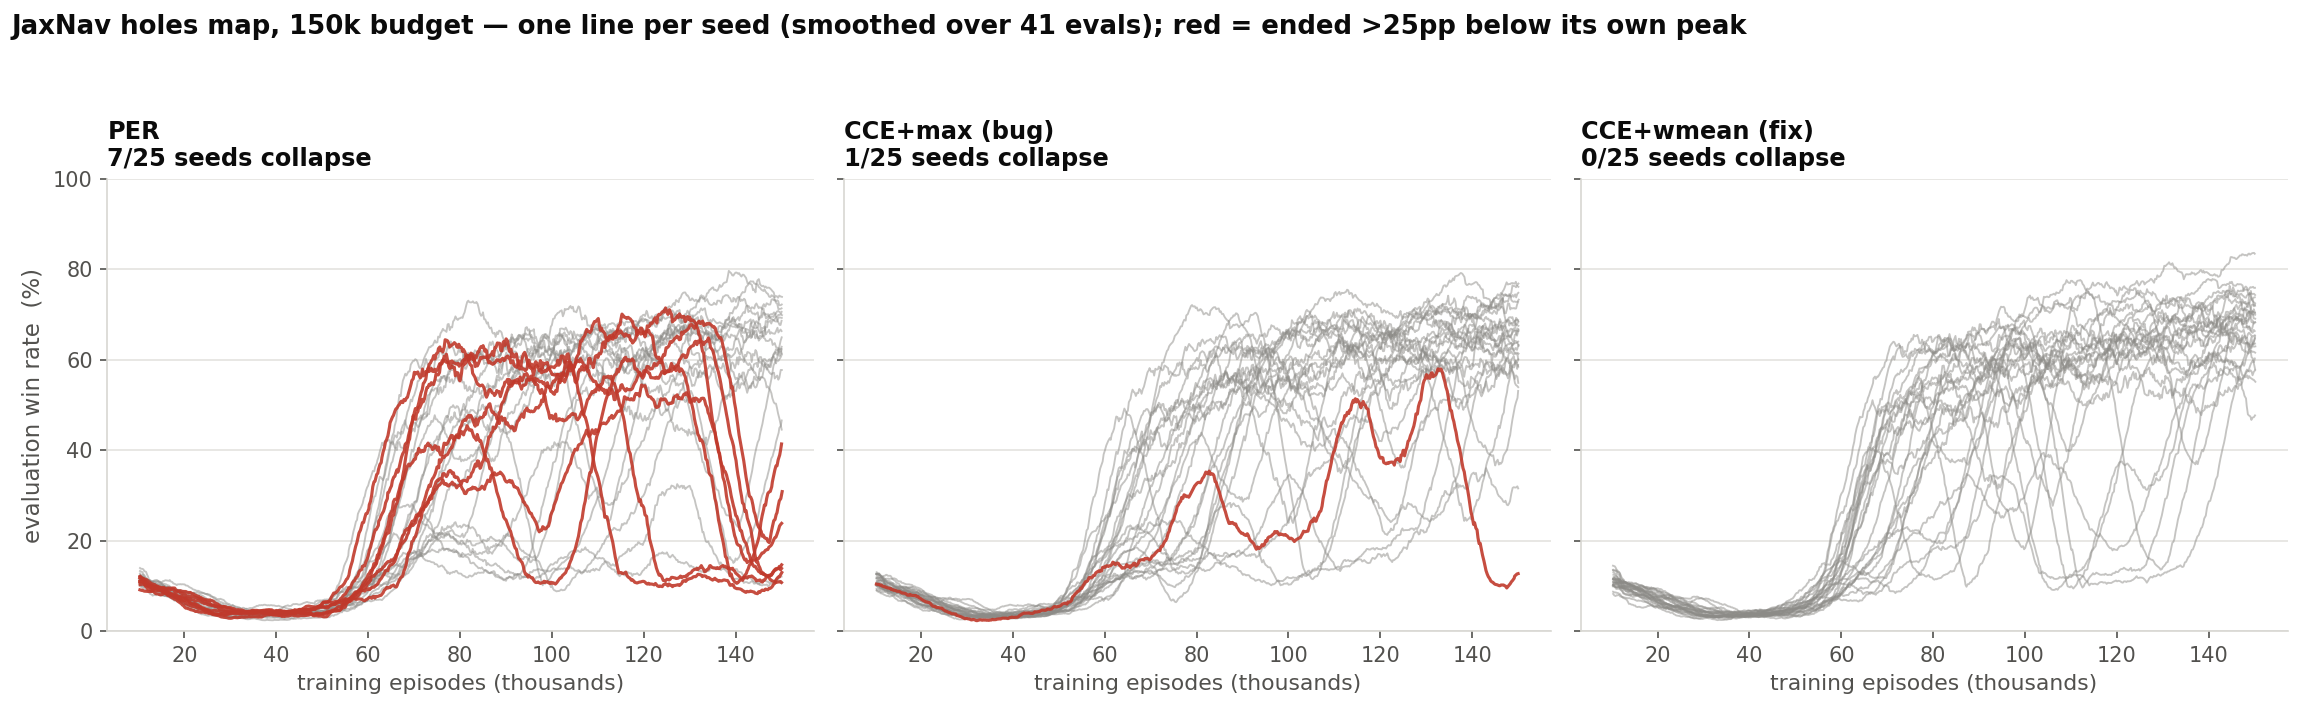
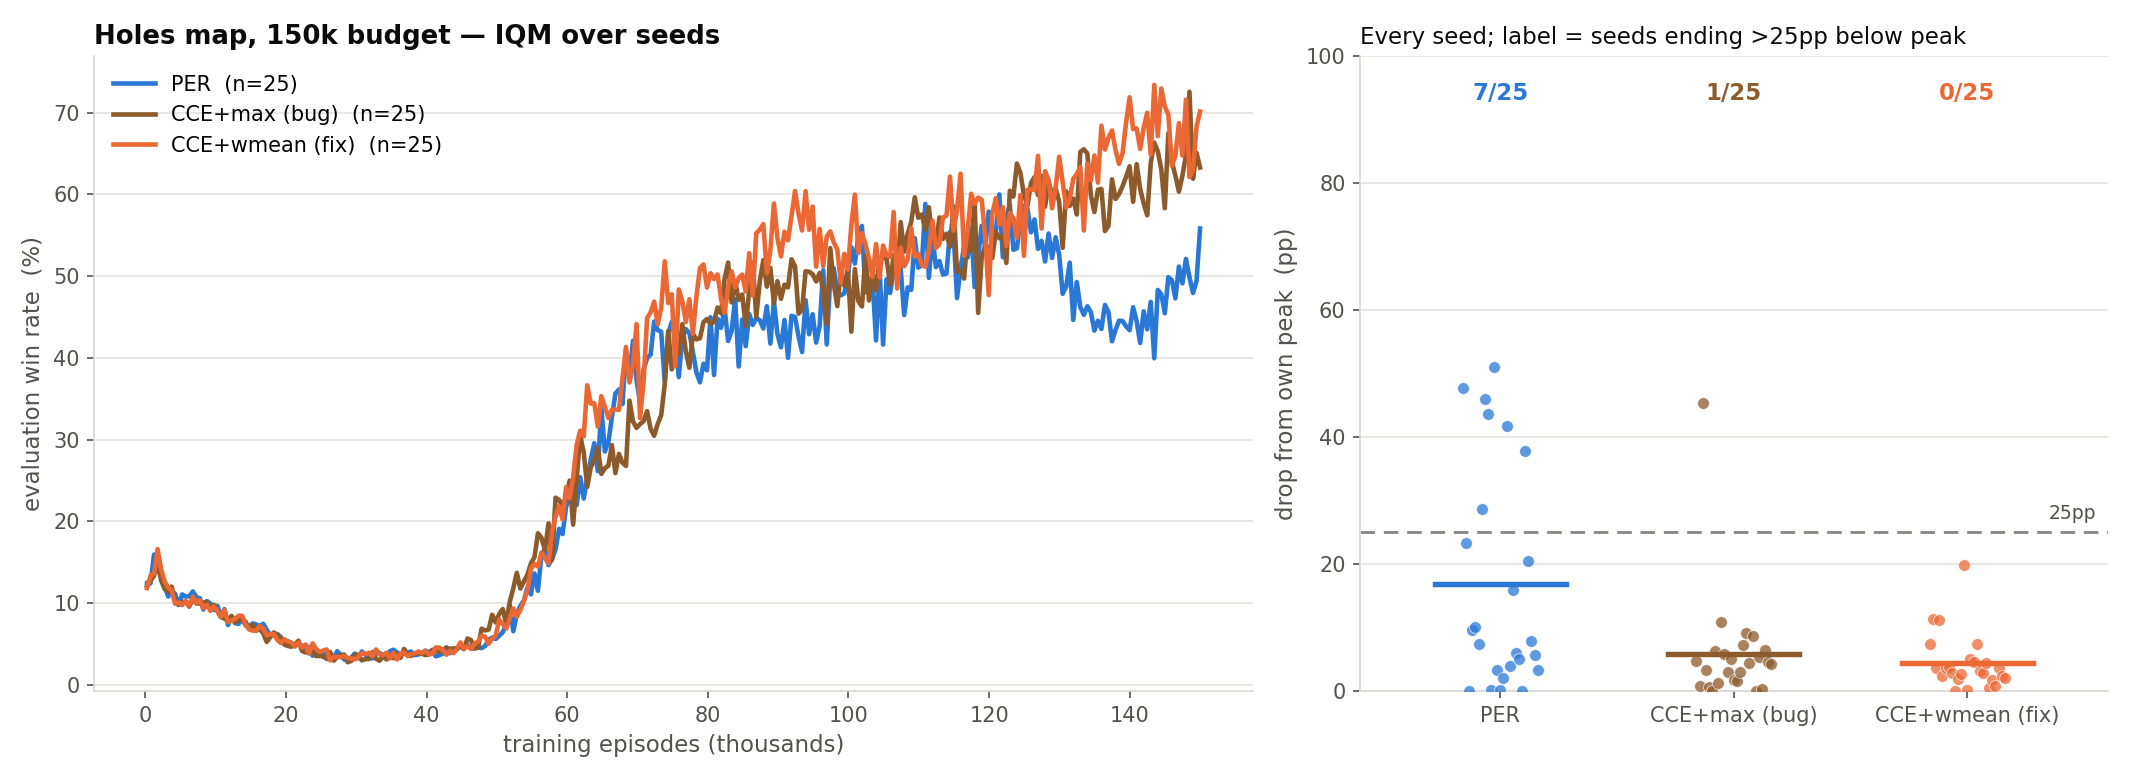
JaxNav collapse figure: use the house two-panel IQM format
The three-panel per-seed spaghetti plot did not match the other figures in
this directory. Rebuilt in the same grammar as fig_25seed_power and
fig_iqm_v4: IQM over seeds on the left, one dot per seed on the right, same
palette, same frame.

The right panel plots each seed's drop from its own peak rather than its
final win rate. Final win rate is what the main figure already shows, and it
is not where the arms differ -- they finish at the same ceiling (best-5 seeds
within 3pp of each other) and differ in how often a seed gives its progress
back late in training. Mean drop: PER 16.8pp, CCE+max 5.8pp, CCE+wmean 4.4pp;
seeds past the 25pp line 7/25, 1/25, 0/25.

Also refreshed the module docstring, which still described three figures.

Claude-Session: https://claude.ai/code/session_01W2t3irnVnCwE5FV82kwf2m

diff --git a/src/counterfactual_rl/analysis/claim2/jaxnav_holes_figures.py b/src/counterfactual_rl/analysis/claim2/jaxnav_holes_figures.py
@@ -1,6 +1,9 @@
 """JaxNav holes-map figures, built straight from the run logs.
 
-Three figures, one claim each:
+Every figure is the same two-panel shape: an IQM-over-seeds curve on the left,
+one dot per seed on the right.
+
+One claim each:
 
   fig_jaxnav_iqm_v4.png   the 96k full-budget run (v4, jobs 271903-271912).
                           IQM win-rate over training, plus every seed's final
@@ -18,6 +21,15 @@ Three figures, one claim each:
                           CCE+weighted_mean seeds died on a bad compute node
                           (dh-node12) and were resubmitted under different
                           job IDs (272041-272043).
+
+  fig_jaxnav_25seed_150k.png  the same comparison rerun at a 150k budget,
+                          where all three arms have converged.
+
+  fig_jaxnav_collapse_{96k,150k}.png  the late-collapse result. Right panel is
+                          each seed's drop from its OWN peak rather than its
+                          final score, because the arms finish at the same
+                          ceiling and differ only in how often a seed throws
+                          its progress away late in training.
 
 Every number is read from `runs/<job>/metrics.log`. Nothing is hard-coded:
 the p-value and every mean are computed here from those arrays.
@@ -543,54 +555,79 @@ def fig_25seed_power(manifest_path=POWER_MANIFEST, budget_label="96k",
 
 
 def fig_collapse(manifest_path, budget_label, out_name, runs_dir=None, drop=0.25):
-    """Every seed's own curve, one panel per arm, collapses drawn in red.
+    """Same two-panel grammar as the other figures: IQM over seeds on the left,
+    one dot per seed on the right.
 
-    The IQM curve in the main figure hides this: a seed that climbs to 75% and
-    falls back to 15% is averaged in with 24 others and shows up only as a
-    slightly lower line. The failure mode is only visible per seed."""
+    The right panel plots each seed's DROP FROM ITS OWN PEAK rather than its
+    final score, because that is the quantity the arms actually differ on --
+    they finish at the same ceiling and differ in how often a seed throws its
+    progress away late in training. Peak and final are both read off the same
+    smoothed curve so the comparison is like-for-like."""
     arms = _power_arms(manifest_path)
     target = _target_episodes(manifest_path)
     labels = {"per": "PER", "cce_max": "CCE+max (bug)", "cce_wmean": "CCE+wmean (fix)"}
+    colors = {"per": BLUE, "cce_max": BROWN, "cce_wmean": ORANGE}
     order = ["per", "cce_max", "cce_wmean"]
 
-    fig, axes = plt.subplots(1, 3, figsize=(15.4, 4.8), sharey=True)
-    for ax, key in zip(axes, order):
-        jobs = [j for j in arms[key]
-                if (r := load(j, runs_dir)) is not None and r[0][-1] >= target * 0.95]
-        n_bad = 0
-        for j in jobs:
-            r = load(j, runs_dir)
+    fig, (ax, bx) = plt.subplots(
+        1, 2, figsize=(14.2, 5.2), gridspec_kw={"width_ratios": [1.55, 1]})
+
+    kept, drops = {}, {}
+    for key in order:
+        kept[key] = [j for j in arms[key]
+                     if (r := load(j, runs_dir)) is not None and r[0][-1] >= target * 0.95]
+        d = []
+        for j in kept[key]:
             pf = peak_and_final(j, runs_dir=runs_dir)
-            bad = pf is not None and pf[0] - pf[1] > drop
-            n_bad += bad
-            # Each eval point averages only 100 episodes, so a raw per-seed line
-            # is a noise band ~40pp tall and 25 of them overlap into a solid
-            # block -- the collapse is invisible without smoothing first.
-            win = SMOOTH
-            if len(r[1]) > win:
-                sm = np.convolve(r[1], np.ones(win) / win, mode="valid")
-                xs = r[0][win - 1:]
-            else:
-                sm, xs = r[1], r[0]
-            ax.plot(xs / 1000, sm * 100,
-                    color="#c0392b" if bad else GREY,
-                    lw=1.5 if bad else 0.9,
-                    alpha=0.9 if bad else 0.5, zorder=3 if bad else 2)
-        ax.set_title(f"{labels[key]}\n{n_bad}/{len(jobs)} seeds collapse",
-                     color=INK, fontsize=11.5, fontweight="bold", loc="left")
-        ax.set_xlabel("training episodes (thousands)", color=INK2, fontsize=10.5)
-        _frame(ax)
-    axes[0].set_ylabel("evaluation win rate  (%)", color=INK2, fontsize=11)
-    axes[0].set_ylim(0, 100)
-    fig.suptitle(f"JaxNav holes map, {budget_label} budget — one line per seed "
-                 f"(smoothed over {SMOOTH} evals); red = ended >{int(drop*100)}pp below its own peak",
-                 color=INK, fontsize=12.5, fontweight="bold", x=0.005, ha="left")
-    fig.tight_layout(rect=(0, 0, 1, 0.93))
+            if pf is not None:
+                d.append(pf[0] - pf[1])
+        drops[key] = np.array(d)
+        g, y = iqm_curve(kept[key], runs_dir)
+        if g is not None:
+            ax.plot(g / 1000, y * 100, color=colors[key], lw=2.2,
+                    label=f"{labels[key]}  (n={len(kept[key])})")
+    ax.set_xlabel("training episodes (thousands)", color=INK2, fontsize=11)
+    ax.set_ylabel("evaluation win rate  (%)", color=INK2, fontsize=11)
+    ax.set_title(f"Holes map, {budget_label} budget — IQM over seeds",
+                 color=INK, fontsize=12.5, fontweight="bold", loc="left")
+    ax.legend(frameon=False, fontsize=10, loc="upper left")
+    _frame(ax)
+
+    for i, key in enumerate(order):
+        v = drops[key]
+        col = colors[key]
+        if len(v) == 0:
+            continue
+        n_bad = int((v > drop).sum())
+        x = np.full(len(v), i) + np.linspace(-0.16, 0.16, len(v))
+        bx.scatter(x, v * 100, s=32, color=col, alpha=0.75,
+                   edgecolor="white", lw=0.4, zorder=3)
+        bx.plot([i - 0.28, i + 0.28], [v.mean() * 100] * 2, lw=2.6, color=col, zorder=4)
+        bx.text(i, 93, f"{n_bad}/{len(v)}", ha="center", fontsize=11,
+                color=col, fontweight="bold")
+    bx.axhline(drop * 100, color=GREY, lw=1.4, ls=(0, (5, 3)), zorder=2)
+    bx.text(2.55, drop * 100 + 1.5, f"{int(drop*100)}pp", fontsize=9,
+            color=INK2, ha="right", va="bottom")
+    bx.set_xticks(range(len(order)))
+    bx.set_xticklabels([labels[k] for k in order], fontsize=9.5, color=INK2)
+    bx.set_xlim(-0.6, 2.6)
+    bx.set_ylim(0, 100)
+    bx.set_ylabel("drop from own peak  (pp)", color=INK2, fontsize=11)
+    bx.set_title("Every seed; label = seeds ending >25pp below peak",
+                 color=INK, fontsize=11, loc="left")
+    _frame(bx)
+
+    fig.tight_layout()
     os.makedirs(OUT_DIR, exist_ok=True)
     out = os.path.join(OUT_DIR, out_name)
     fig.savefig(out, dpi=150, facecolor="white")
     plt.close(fig)
     print(f"wrote {out}")
+    for key in order:
+        v = drops[key]
+        if len(v):
+            print(f"  {labels[key]:16s} mean drop {v.mean()*100:5.1f}pp   "
+                  f"collapsed {(v > drop).sum()}/{len(v)}")
     return out
 
 
